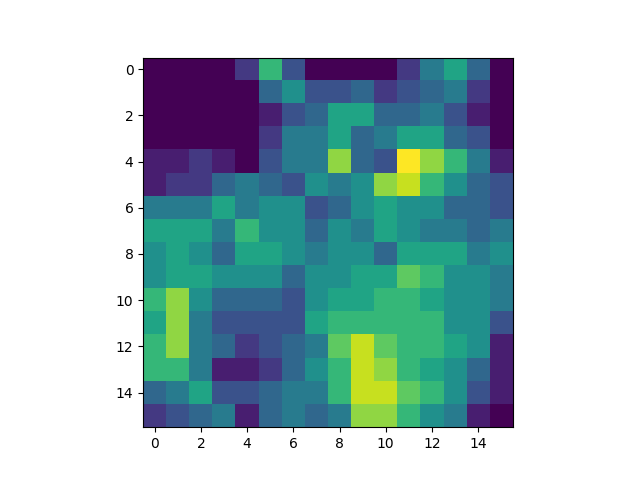
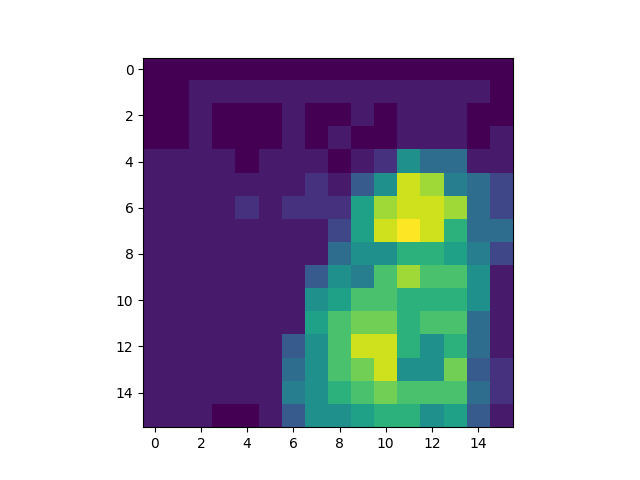
Bugfixes

diff --git a/zero_shot.py b/zero_shot.py
@@ -69,6 +69,7 @@ if args.guide:
     original_mask = cv2.imread(f'{path_original}26.png', cv2.IMREAD_GRAYSCALE)
     original_mask = torch.tensor(cv2.resize(original_mask, (args.res_size, args.res_size)), dtype=torch.float, device=device) / 255 
     new_mask = torch.roll(original_mask,shifts=6, dims=1)
+    new_mask = torch.where(new_mask < 0.4, -1, 1)
     save_tensor_as_image(new_mask, args.mask)
 h = cv2.imread(args.mask, cv2.IMREAD_GRAYSCALE)
 new_attn = get_multi_level_attention_from_average(h, device)
@@ -83,7 +84,7 @@ ht = torch.tensor(cv2.resize(h, (args.res_size, args.res_size)), dtype=torch.flo
 #    x_0 = cv2.imread(args.out_path + "x0.png")
 #    x_0 = torch.tensor(x_0, dtype=torch.float, device=device) / 255
 
-prompts = ["A cat with a city in the background"]
+prompts = ["A cat with a city in the background and a little mouse"]
 timesteps = 50
 scheduler.set_timesteps(timesteps)
 x_0 = torch.load(f'{path_original}{timesteps}.pt',map_location = device)
@@ -181,7 +182,11 @@ for t in tqdm(scheduler.timesteps):
                 l = lossF(attention_maps[:,:,j],attn_replace[:,:,j]) \
                     + lossF(attention_maps[:,:,j] / torch.linalg.norm(attention_maps[:,:,j], ord=np.inf), attn_replace[:,:,j])
                 losses.append(l)'''
-
+            #TODO loss sulla similarità delle attenzioni
+            #TODO controlla oggetti piccoli
+            #TODO pipeline sperimentale con pochi prompt
+            #TODO Cosa succede quando si usano più maschere
+            #TODO Prendi un'immagine senza oggetti la inverti poi aggiungi un oggetto
             #latents_original = torch.load(f'{path_original}{step}.pt').to(dtype=torch.float16, device=device)
             #region_diff = torch.ones(latents2.shape, dtype=torch.float16, device=device) - torch.abs(latents2 - latents_original)
             #print(torch.min(region_diff))
@@ -189,12 +194,10 @@ for t in tqdm(scheduler.timesteps):
             #latents2 = latents2 * theta[step] + latents_original * (1 - theta[step])
             l1 = lossF(s_hat,ht) \
                 + lossF(s_hat / torch.linalg.norm(s_hat, ord=np.inf), ht)
-            l2 = 100 * lossM(latents2, x_k * (1-mask) + (mask) * latents2)
+            l2 = 10 * lossM(latents2, x_k * (1-mask) + (mask) * latents2)
             #l3 = lossF(1 - s_hat, 1 - ht)
             #print(l1)
             #print(l2)
-            print(l1)
-            print(l2)
             loss = l1 + l2#sum(losses)
             loss.backward()
             #if loss < 0.01:
@@ -207,14 +210,14 @@ for t in tqdm(scheduler.timesteps):
             grad_x = latents.grad / torch.abs(latents.grad).max()#/ torch.linalg.norm(latents.grad)#torch.abs(latents.grad).max()
             #grad_x[grad_x != grad_x] = 0
             #eta = 0.01
-            eta = 0.5
+            eta = 0.1
             
             latents = latents2 - eta * lambd[step]  * grad_x
             #Resampling
             if args.resampling_steps > 0 and i < args.resampling_steps:
-                t1 = scheduler.timesteps[step-1]
-                latents = torch.sqrt(scheduler.alphas[t] / scheduler.alphas[t1]) * latents 
-                + torch.sqrt(1 - scheduler.alphas[t] / scheduler.alphas[t1]) * torch.randn_like(latents)
+                t1 = scheduler.timesteps[step+1]
+                latents = torch.sqrt(1 - scheduler.betas[t1]) * latents 
+                + torch.sqrt(scheduler.betas[t1]) * torch.randn_like(latents)
             #latents = latents * theta[step] + latents_original * (1 - theta[step])
             
             #latents = (theta[step]) * latents + (1 - theta[step]) * torch.randn_like(latents)
